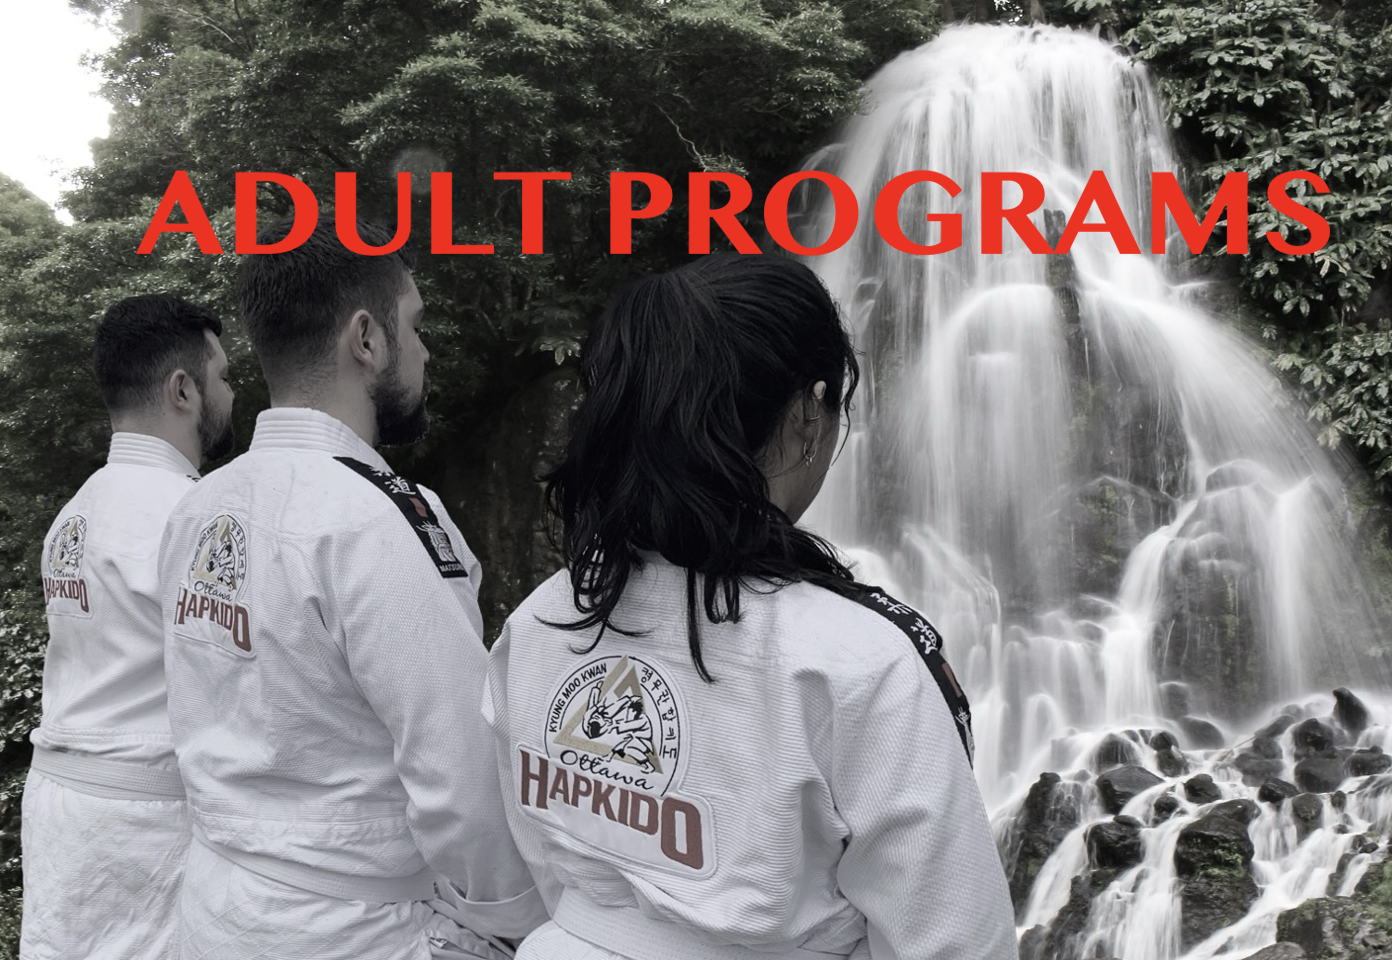
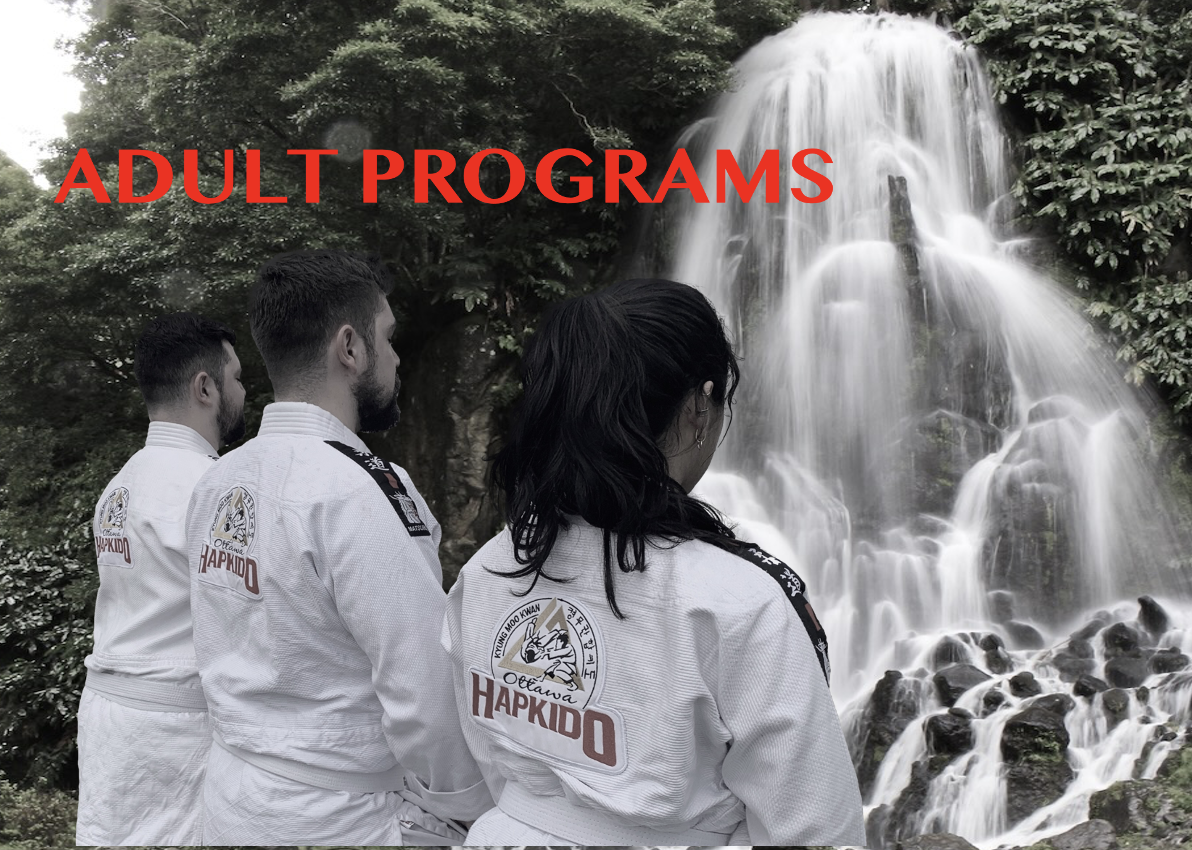
Adding childrens write-up

diff --git a/src/components/react/FeatureShowcase.tsx b/src/components/react/FeatureShowcase.tsx
@@ -32,8 +32,8 @@ const features = [
   },
   {
     // icon: BarChart3,
-    title: 'Adult Programs',
-    description: '-- blurb for Adult programs --',
+    title: '',
+    description: '',
     image: fitnessImg,
     link: '/master_ken/adult_programs'
   },